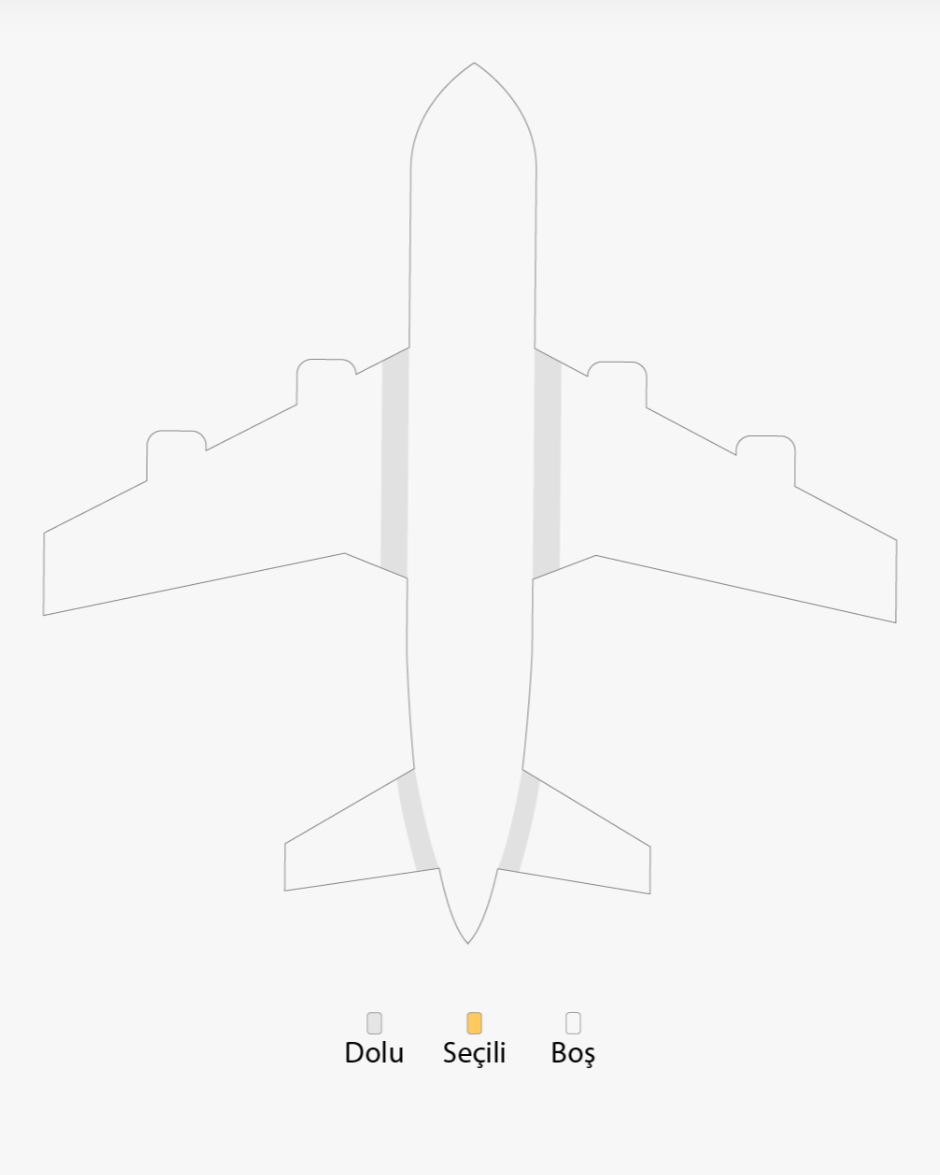
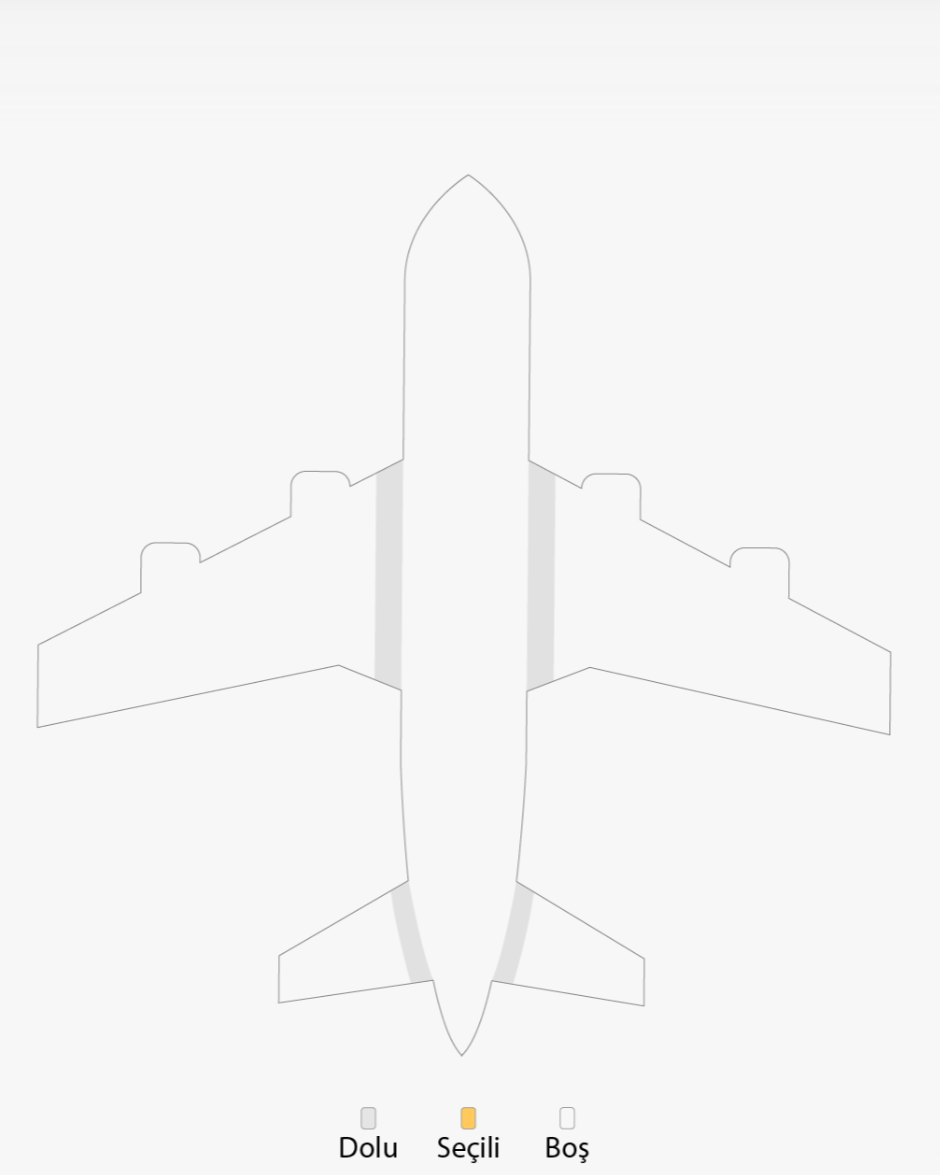
Update styles and add error message handling; adjust layout and dimensions for better responsiveness

diff --git a/src/app/page.tsx b/src/app/page.tsx
@@ -1,49 +1,149 @@
 "use client";
-import { useState } from "react";
+import { useState, useEffect, useRef } from "react";
 import Image from "next/image";
 import styles from "./page.module.css";
 
+type User = {
+  id: number;
+  name: string;
+};
+
 export default function Home() {
-  const [activeIndex, setActiveIndex] = useState<number | null>(null);
+  const [activeIndex, setActiveIndex] = useState<number | null>(0);
   const [selectedSeats, setSelectedSeats] = useState<string[]>([]);
+  const [occupiedSeatsData, setOccupiedSeatsData] = useState<{ [key: string]: string }>({});
+  const [formErrors, setFormErrors] = useState<{ [key: string]: string }>({});
+  const timeoutRef = useRef<NodeJS.Timeout | null>(null);
+
+  const occupiedSeats = Object.keys(occupiedSeatsData);
+
+  useEffect(() => {
+    // Dolu koltuk verilerini API'den çek
+    const fetchOccupiedSeatsData = async () => {
+      const response = await fetch("https://jsonplaceholder.typicode.com/users");
+      const data: Pick<User, "id" | "name">[] = await response.json();
+
+      const seatsData = data.slice(0, 10).reduce((acc: { [key: string]: string }, user, index) => {
+        acc[(index + 1).toString()] = user.name;
+        return acc;
+      }, {});
+
+      setOccupiedSeatsData(seatsData);
+    };
+
+    fetchOccupiedSeatsData();
+  }, []);
+
+  useEffect(() => {
+    // Seçilen koltukları localStorage'dan al
+    const savedSelectedSeats = localStorage.getItem("selectedSeats");
+    if (savedSelectedSeats) {
+      setSelectedSeats(JSON.parse(savedSelectedSeats));
+    }
+  }, []);
+
+  useEffect(() => {
+    // Seçilen koltukları localStorage'a kaydet
+    localStorage.setItem("selectedSeats", JSON.stringify(selectedSeats));
+  }, [selectedSeats]);
+
+  const resetTimeout = () => {
+    if (timeoutRef.current) {
+      clearTimeout(timeoutRef.current);
+    }
+    timeoutRef.current = setTimeout(() => {
+      if (confirm("İşleme devam etmek istiyor musunuz?")) {
+        resetTimeout();
+      } else {
+        localStorage.removeItem("selectedSeats");
+        window.location.reload();
+      }
+    }, 30000);
+  };
 
   const toggleAccordion = (index: number) => {
     setActiveIndex(activeIndex === index ? null : index);
+    resetTimeout();
   };
 
   const toggleSeatSelection = (seat: string) => {
-    setSelectedSeats((prevSelectedSeats) =>
-      prevSelectedSeats.includes(seat)
-        ? prevSelectedSeats.filter((s) => s !== seat)
-        : [...prevSelectedSeats, seat]
-    );
+    if (occupiedSeats.includes(seat)) {
+      alert("Bu koltuk dolu! Lütfen başka bir koltuk seçin.");
+      return;
+    }
+    if (selectedSeats.includes(seat)) {
+      setSelectedSeats(selectedSeats.filter((s) => s !== seat));
+    } else if (selectedSeats.length < 3) {
+      setSelectedSeats([...selectedSeats, seat]);
+    }
+    resetTimeout();
   };
 
-  const totalPrice = selectedSeats.length * 1000;  
+  const validateForm = () => {
+    const errors: { [key: string]: string } = {};
+    selectedSeats.forEach((seat, index) => {
+      const passengerPrefix = `passenger-${index}`;
+      const name = (document.getElementById(`${passengerPrefix}-name`) as HTMLInputElement).value;
+      const surname = (document.getElementById(`${passengerPrefix}-surname`) as HTMLInputElement).value;
+      const phone = (document.getElementById(`${passengerPrefix}-phone`) as HTMLInputElement).value;
+      const email = (document.getElementById(`${passengerPrefix}-email`) as HTMLInputElement).value;
+      const gender = (document.getElementById(`${passengerPrefix}-gender`) as HTMLInputElement).value;
+      const birthdate = (document.getElementById(`${passengerPrefix}-birthdate`) as HTMLInputElement).value;
+
+      if (!name) errors[`${passengerPrefix}-name`] = "İsim gerekli";
+      if (!surname) errors[`${passengerPrefix}-surname`] = "Soyisim gerekli";
+      if (!phone) errors[`${passengerPrefix}-phone`] = "Telefon gerekli";
+      if (!email) errors[`${passengerPrefix}-email`] = "E-Posta gerekli";
+      if (!gender) errors[`${passengerPrefix}-gender`] = "Cinsiyet gerekli";
+      if (!birthdate) errors[`${passengerPrefix}-birthdate`] = "Doğum Tarihi gerekli";
+    });
+    setFormErrors(errors);
+    return Object.keys(errors).length === 0;
+  };
+
+  const handleComplete = () => {
+    if (validateForm()) {
+      alert("Rezervasyon işlemi başarıyla tamamlandı!");
+    } else {
+      alert("Lütfen tüm alanları doldurun.");
+    }
+  };
+
+  const totalPrice = selectedSeats.length * 1000;
 
   const renderSeats = () => {
-  const seats = [];
-  for (let row = 1; row <= 19; row++) {
-    for (let col = 1; col <= 4; col++) {
-      if (col === 3) { 
-        seats.push(<div key={`spacer-${row}`} className={styles.spacer}></div>);
+    const seats = [];
+    let seatNumber = 1;
+
+    for (let row = 1; row <= 19; row++) {
+      for (let col = 1; col <= 4; col++) {
+        if (col === 3) {
+          seats.push(<div key={`spacer-${row}`} className={styles.spacer}></div>);
+        }
+
+        const seat = `${seatNumber}`;
+
+        seats.push(
+          <button
+            key={seatNumber}
+            className={`${styles.seatButton} ${
+              occupiedSeats.includes(seat)
+                ? styles.occupied
+                : selectedSeats.includes(seat)
+                ? styles.selected
+                : ""
+            }`}
+            onClick={() => toggleSeatSelection(seat)}
+            data-tooltip={occupiedSeatsData[seat] || ""}
+          > 
+          </button>
+        );
+
+        seatNumber++;
       }
-
-      const seat = `${row}${String.fromCharCode(64 + col)}`;
-      seats.push(
-        <button
-          key={seat}
-          className={`${styles.seatButton} ${
-            selectedSeats.includes(seat) ? styles.selected : ""
-          }`}
-          onClick={() => toggleSeatSelection(seat)}
-        />
-      );
     }
-  }
-  return seats;
-};
-
+    return seats;
+  };
 
   return (
     <div className={styles.page}>
@@ -52,56 +152,63 @@ export default function Home() {
           <div className={styles.leftColumn}>
             <div className={styles.imageWrapper}>
               <Image src="/ucak.png" alt="Flight" className={styles.image} layout="responsive" width={900} height={1200} />
-             <div className={styles.seatWrapper}>
-              <div className={styles.seatMap}>
-                {renderSeats()}
-              </div></div>
+              <div className={styles.seatWrapper}>
+                <div className={styles.seatMap}>
+                  {renderSeats()}
+                </div>
+              </div>
             </div>
           </div>
           <div className={styles.rightColumn}>
-            {[1, 2, 3].map((passenger, index) => (
+            {selectedSeats.map((seat, index) => (
               <div
-                key={passenger}
+                key={seat}
                 className={`${styles.passengerCard} ${activeIndex === index ? styles.active : ""}`}
               >
                 <div
                   className={styles.passengerHeader}
                   onClick={() => toggleAccordion(index)}
                 >
-                  {passenger}. Yolcu
-                  <span className={`${styles.arrowIcon} ${activeIndex === index ? styles.active : ""}`}>
-                    
-                  </span>
+                  {index + 1}. Yolcu
+                  <span className={`${styles.arrowIcon} ${activeIndex === index ? styles.active : ""}`}></span>
                 </div>
-                <div className={styles.passengerContent}>
-                  <div className={styles.inputGroup}>
-                    <label>İsim</label>
-                    <input type="text" className={styles.input} />
+                {activeIndex === index && (
+                  <div className={styles.passengerContent}>
+                    <div className={styles.inputGroup}>
+                      <label>İsim</label>
+                      <input id={`passenger-${index}-name`} type="text" className={styles.input} />
+                      {formErrors[`passenger-${index}-name`] && <span className={styles.error}>{formErrors[`passenger-${index}-name`]}</span>}
+                    </div>
+                    <div className={styles.inputGroup}>
+                      <label>Soyisim</label>
+                      <input id={`passenger-${index}-surname`} type="text" className={styles.input} />
+                      {formErrors[`passenger-${index}-surname`] && <span className={styles.error}>{formErrors[`passenger-${index}-surname`]}</span>}
+                    </div>
+                    <div className={styles.inputGroup}>
+                      <label>Telefon</label>
+                      <input id={`passenger-${index}-phone`} type="tel" className={styles.input} />
+                      {formErrors[`passenger-${index}-phone`] && <span className={styles.error}>{formErrors[`passenger-${index}-phone`]}</span>}
+                    </div>
+                    <div className={styles.inputGroup}>
+                      <label>E-Posta</label>
+                      <input id={`passenger-${index}-email`} type="email" className={styles.input} />
+                      {formErrors[`passenger-${index}-email`] && <span className={styles.error}>{formErrors[`passenger-${index}-email`]}</span>}
+                    </div>
+                    <div className={styles.inputGroup}>
+                      <label>Cinsiyet</label>
+                      <input id={`passenger-${index}-gender`} type="text" className={styles.input} />
+                      {formErrors[`passenger-${index}-gender`] && <span className={styles.error}>{formErrors[`passenger-${index}-gender`]}</span>}
+                    </div>
+                    <div className={styles.inputGroup}>
+                      <label>Doğum Tarihi</label>
+                      <input id={`passenger-${index}-birthdate`} type="date" className={styles.input} />
+                      {formErrors[`passenger-${index}-birthdate`] && <span className={styles.error}>{formErrors[`passenger-${index}-birthdate`]}</span>}
+                    </div>
                   </div>
-                  <div className={styles.inputGroup}>
-                    <label>Soyisim</label>
-                    <input type="text" className={styles.input} />
-                  </div>
-                  <div className={styles.inputGroup}>
-                    <label>Telefon</label>
-                    <input type="tel" className={styles.input} />
-                  </div>
-                  <div className={styles.inputGroup}>
-                    <label>E-Posta</label>
-                    <input type="email" className={styles.input} />
-                  </div>
-                  <div className={styles.inputGroup}>
-                    <label>Cinsiyet</label>
-                    <input type="text" className={styles.input} />
-                  </div>
-                  <div className={styles.inputGroup}>
-                    <label>Doğum Tarihi</label>
-                    <input type="date" className={styles.input} />
-                  </div>
-                </div>
+                )}
               </div>
             ))}
-            <button className={styles.completeButton}>İşlemleri Tamamla</button>
+            <button className={styles.completeButton} onClick={handleComplete}>İşlemleri Tamamla</button>
             <div className={styles.summarySection}>
               <div className={styles.selectedSeats}>
                 <ul>

diff --git a/src/app/page.module.css b/src/app/page.module.css
@@ -29,8 +29,7 @@
 }
 
 .imageWrapper {
-  width: 500px;
-  /* Fixed width */
+  width: 600px;
   height: auto;
   position: relative;
 }
@@ -45,7 +44,6 @@
   flex-direction: column;
   gap: 16px;
   width: 500px;
-  /* Fixed width */
 }
 
 .passengerCard {
@@ -53,7 +51,6 @@
   padding: 0;
   overflow: hidden;
   width: 100%;
-  /* Fixed width */
 }
 
 .passengerHeader {
@@ -100,6 +97,12 @@
   padding: 8px;
   border: 1px solid var(--secondary);
   border-radius: 4px;
+}
+
+.error {
+  color: var(--danger);
+  font-size: 12px;
+  margin-top: 4px;
 }
 
 .completeButton {
@@ -189,34 +192,67 @@
 }
 
 .seatWrapper {
+  position: absolute;
+  top: 0;
+  left: 0;
+  width: 100%;
+  height: 100%;
   display: flex;
   justify-content: center;
-  width: 100%;
+  align-items: center;
 }
 
 .spacer {
-  width: 10px;
+  width: 12px;
 }
 
 .seatMap {
   display: grid;
-  grid-template-columns: repeat(2, 20px) 1fr repeat(2, 20px);
-  gap: 2px 0;
+  grid-template-columns: repeat(2, 12px) 1fr repeat(2, 12px);
+  gap: 3px 0;
   justify-content: center;
 }
 
 .seatButton {
-  width: 14px;
-  height: 20px;
+  position: relative;
+  width: 10px;
+  height: 16px;
   background-color: var(--light);
   border: 1px solid var(--secondary);
-  border-radius: 4px;
+  border-radius: 3px;
   cursor: pointer;
+}
+
+.seatButton.occupied::after {
+  content: attr(data-tooltip);
+  position: absolute;
+  bottom: 100%;
+  left: 50%;
+  transform: translateX(-50%);
+  background-color: var(--black);
+  color: var(--white);
+  padding: 4px 8px;
+  border-radius: 4px;
+  white-space: nowrap;
+  opacity: 0;
+  visibility: hidden;
+  transition: opacity 0.2s ease, visibility 0.2s ease;
+}
+
+.seatButton.occupied:hover::after {
+  opacity: 1;
+  visibility: visible;
 }
 
 .seatButton.selected {
   background-color: var(--warning);
   color: var(--white);
+}
+
+.seatButton.occupied {
+  background-color: var(--secondary);
+  color: var(--white);
+  cursor: not-allowed;
 }
 
 .exitRow {
